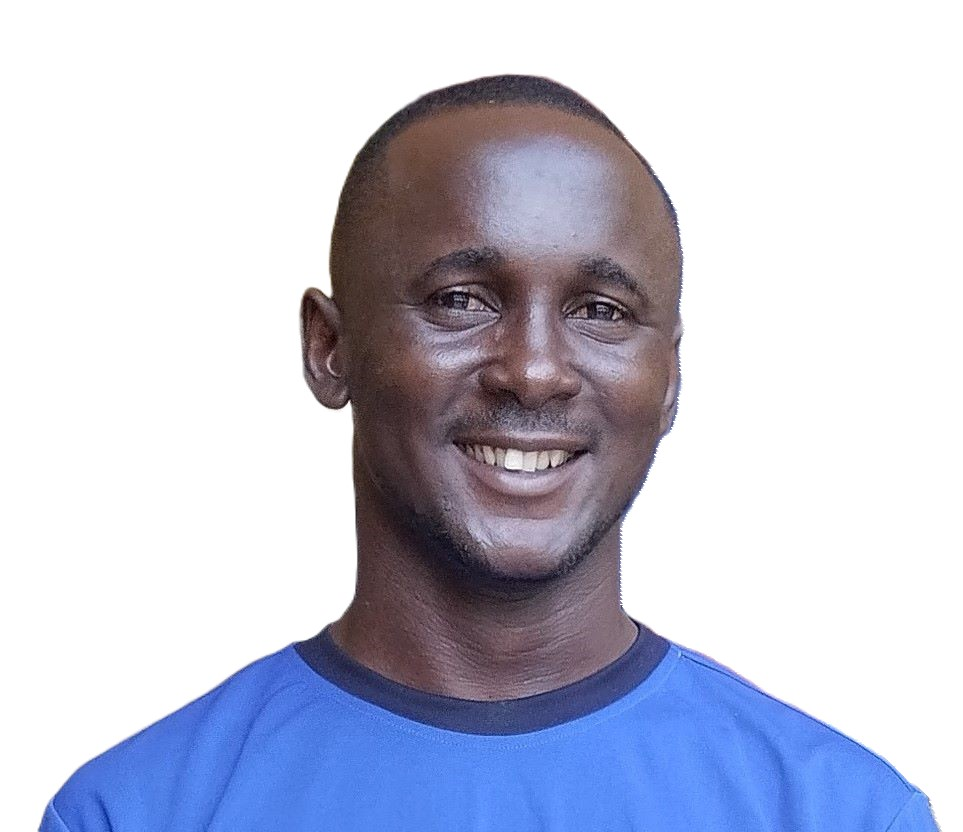
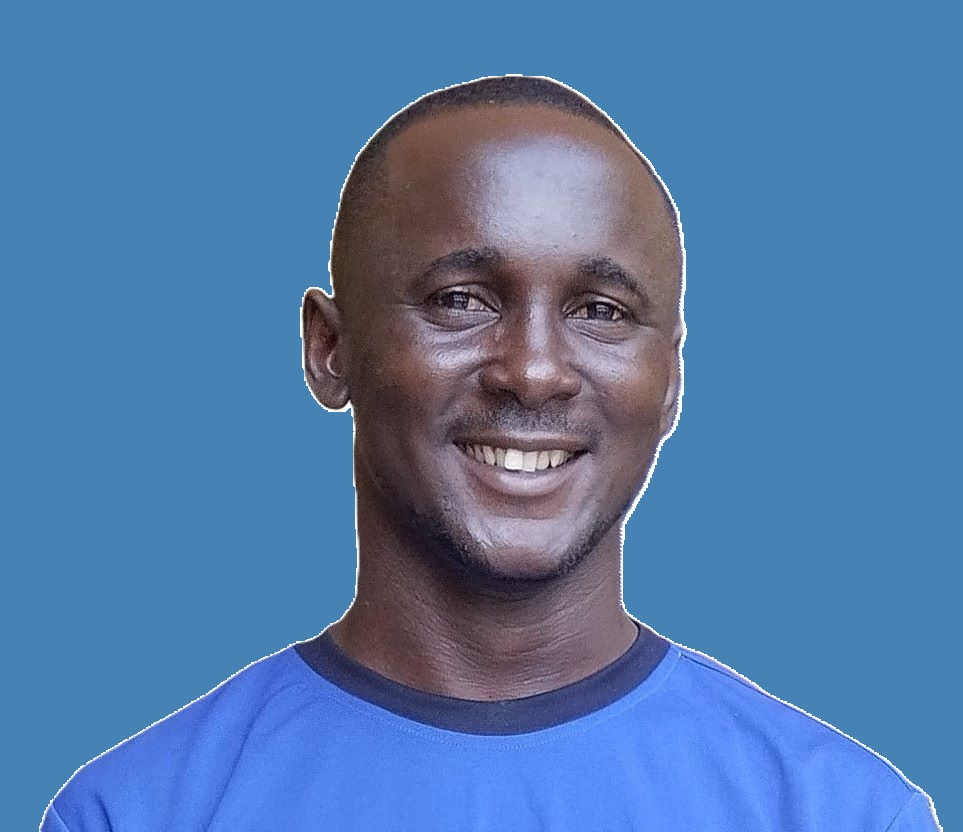
Changes to be committed: 	modified:   index.html 	modified:   pics image.jpg 	modified:   style.css

diff --git a/index.html b/index.html
@@ -8,7 +8,7 @@
 </head>
 <body>
     <div class="nav">
-        <a href="#" class="logo">Cinval.</a>
+        <a href="#" class="logo">Cinval.</a> 
         <div class="nav2">
             <nav class="navbar">
                 <a href="#">Home</a>
@@ -21,36 +21,34 @@
 
             </nav>
         </div>
-        <div>
-            <div>
-                <nav>
-                    <ul class="bag">
-                        <li>
-                            <img src="../facebook icon.png" alt="img 1">
-                        </li>
-                        <li>
-                            <img src="../camera icon.png" alt="img 2">
-                        </li>
-                        <li>
-                            <img src="../twitter icon.png" alt="img 3">
-                        </li>
-                    </ul>
-                    
-                </nav>
-            </div class="home">
-            <div class="home-content">
-                <h1>I am Nwaemesi Chinedu</h1>
-      <h3>I'm Chinedu, a professional web developer with <br> long time experience in this field</h3>
-      <nav class="imagedp">
-        <img src="pics image.jpg" alt="">
-      </nav>
-            </div>
+    </div>
 
-        <div class="btn-box">
-            <a href="">my Portfolio</a>
-            <img src="../play btn.jpg" alt="img 4">
-        </div>
-        </div>
+    <div>
+            <ul class="bag">
+                <li>
+                    <img src="../facebook icon.png" alt="img 1">
+                </li>
+                <li>
+                    <img src="../camera icon.png" alt="img 2">
+                </li>
+                <li>
+                    <img src="../twitter icon.png" alt="img 3">
+                </li>
+            </ul>   
+    </div>
+
+    <div class="home">
+        <div class="home-content">
+            <span>
+                <h1>I am Nwaemesi Chinedu</h1>
+                <h3>I'm Chinedu, a professional web developer with <br> long time experience in this field<h3>   
+                <a href="" class="a-link">my Portfolio</a>
+                <img src="../play btn.jpg" alt="img 4" > 
+            </span>
+            <nav class="imagedp">
+                <img src="pics image.jpg" alt="" class="img">
+            </nav>
+    </div>
     </div>
     
 </body>

diff --git a/style.css b/style.css
@@ -11,12 +11,12 @@ body{
 }
 .home{
     height: 100vh;
-    background: url(pics\ image.jpg) no-repeat;
+    /* background: url(pics\ image.jpg) no-repeat; */
     background-size: cover;
     background-position: center;
     display: flex none;
     align-items: center;
-    padding: 0 10%;
+    /* padding: 0 10%; */
 }
 .navbar{
     float: right;
@@ -37,14 +37,16 @@ body{
     text-align: center;
 }
 .home-content{
-    max-width: 600;
+    /* max-width: 600; */
     color: white;
+    display: flex;
 }
+
 .home-content h1{
     font-size: 50px;
     font-weight: 600;
 }
-.btn-box a{
+.a-link{
     display: inline;
     justify-content: center;
     align-items: center;
@@ -75,8 +77,14 @@ body{
     
 }
 .imagedp{
-    margin: 0 0 400px 270px;
+    /* margin: 0 0 400px 270px; */
     background-color: steelblue;
+    float: right;
+}
 
+.img{
+    height: 400px;
+    width: 400px;
+    margin: -200px 0 0 38rem;
 }
 
